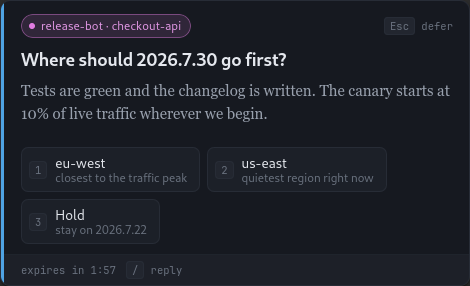
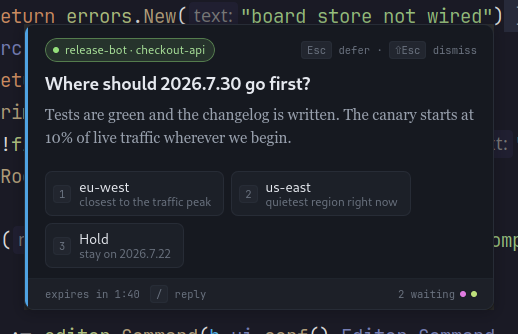
docs(wiki): the twelve screenshots, and seven pages that were asking for one
The sitting ran for the first time. Ten of the twelve are in the pages that wanted
them: the agents board, the inbox, the review board, the hands-off pair, the
artifact, the toast, the panel, and card.png replaced by the restage that finally
earns its "2 waiting" (the old one read `expires in 1:57` with no queue behind it,
which both captions already claimed).

Every frame was read rather than trusted. The script's uniformity check can only
tell a rendered surface from wallpaper, and three frames it passed had a card
sitting over the subject.

Held back, and honestly rather than quietly: viewer.png is scrolled to the alert
callouts instead of the table, diagram and code block its spec asks for, and no page
references it yet. progress.png and history-stats.png are good but no page asks for
them. is-it-safe.md and settings.md keep their placeholders, because the secret card
and the Appearance page are not in the plan at all.

Known gaps in what did ship, for whoever retakes: the board shows seven roster rows
where DESIGN wants four, which is not fixable from the staging side - `sync lock`
mints its own session key on purpose, so every lock is a row. All four chips are in
frame, which is the other half of what DESIGN asks. The hands-off pair sits over the
review board rather than an editor. The artifact's bar has the interactive badge and
the runtime but no preview/code toggle.

SHOTS.md now opens with what the first run cost instead of a warning that it had
never happened.

diff --git a/tools/wiki/shots.py b/tools/wiki/shots.py
@@ -891,17 +891,24 @@ def end_progress(c):
     """
     if not c.progress_procs:
         return
+    # EOF and not SIGTERM. `agentbox progress` reads percent lines from stdin and
+    # finishes the task when the pipe closes; killing it instead reports the task
+    # as interrupted, and the daemon turns that into an error notification that
+    # then sat over the artifact and the hands-off strip in the next two shots.
     for p in c.progress_procs:
         try:
             p.stdin.close()
         except (OSError, ValueError):
             pass
-        p.terminate()
     for p in c.progress_procs:
         try:
-            p.wait(timeout=3)
+            p.wait(timeout=5)
         except subprocess.TimeoutExpired:
-            p.kill()
+            p.terminate()
+            try:
+                p.wait(timeout=3)
+            except subprocess.TimeoutExpired:
+                p.kill()
         if p in c.bg:
             c.bg.remove(p)
     c.progress_procs = []
@@ -1617,6 +1624,16 @@ def main():
         # and it is always-on-top in the corner every other window shot uses.
         if shot["key"] == "S10":
             end_progress(c)
+        # S9 is a WARNING notify, and a warning waits to be read: no dismiss timer
+        # is ever armed for it (FACTS.md, daemon.go:1501-1511). So it stays the
+        # current item and the card S1 fires queues behind it, and S1 reported "no
+        # window matching =agentbox" in every full run while passing on its own.
+        # Nothing else is pending at this point - the history items are resolved
+        # and S1 has not fired - so clearing the queue clears exactly the toast.
+        if shot["key"] == "S9":
+            assert_isolated(c.env_iso)
+            c.abx("dismiss", "--all", env=c.env_iso)
+            c.wait_gone("=agentbox · toast", c.env_iso, seconds=4.0)
         # S1 leaves two questions queued on purpose - that is what its footer
         # counts - and the daemon shows the next one the moment the front card
         # goes. Every app-window shot after this had a card sitting over it.

diff --git a/tools/wiki/SHOTS.md b/tools/wiki/SHOTS.md
@@ -8,10 +8,33 @@ different questions and change at different speeds. DESIGN.md says what must be
 on screen and why, and it is the thing a page author reads. This is an operations
 runbook for one script, and it changes whenever the script does.
 
-**As of this writing the script has never been run.** It was written and tested
-against fabricated input only. The first person to run it should expect to retake
-two or three shots and should read the "what usually goes wrong" section before
-starting, not after.
+**First run: 2026-08-07.** It had never been run before that, having been written
+and tested against fabricated input only, and it did not survive contact with a
+desktop. Eight defects, all in the script or its staging rather than in the
+product, all fixed and all now covered by tests:
+
+1. `sync attach` ran in the foreground. It never returns by design, so the sitting
+   hung at the fourth line of phase 1 with the daemon already down.
+2. `walkthrough create`'s exit code was thrown away, turning a schema refusal into
+   a 45-second wait for a window.
+3. The spec's `repo_root` was relative; the daemon requires absolute.
+4. The spec had no `pinned` SHA, which the daemon also requires.
+5. Code and check steps need a `tldr`, and the board opens in brief, so for S4 it
+   is the photograph rather than metadata.
+6. The board opens on the ground step, which has no code and no note, so S4 has to
+   step right and leave brief for the full text.
+7. The three progress feeders hold their pipes open, so that window sat in the
+   corner of every later frame. They are closed on EOF now - terminating them made
+   the daemon report an interrupted task, and that error notification then sat over
+   the artifact and the hands-off strip.
+8. Staging fired enough items to trip flood control, which collapsed S1's card into
+   a stack so no card window ever appeared; and S9 is a warning notify, which waits
+   to be read and therefore held the queue behind it. S1 failed in every full run
+   while passing on its own, which reads as a flaky window and is not one.
+
+Expect to read every frame afterwards regardless. The script's own check can only
+tell a rendered surface from wallpaper; it cannot see a card sitting over the shot,
+and three of the first run's frames had one.
 
 ## What it costs you
 

diff --git a/docs/wiki/pages/documents-and-artifacts.md b/docs/wiki/pages/documents-and-artifacts.md
@@ -89,7 +89,7 @@ Some answers are not a number in a text field. They are a shape, a threshold, a
 share of traffic. Nine numbered options cannot carry that, so an agent writes a
 small page and blocks until you have used it.
 
-<!-- SHOT: an artifact running in its own window. A canary console with a slider at 50% of live traffic, a bar under it saying what that share is in requests a minute, two buttons reading Start the rollout and Hold it. The bar above showing the interactive badge, the runtime it asked for, and the preview/code toggle -->
+![An artifact running in its own window: a canary console titled How much traffic should the new build take, a slider at 50% of live traffic with 2,100 req/min on the new build under it, and two buttons reading Start the rollout and Hold it. The bar above carries an interactive badge and the runtime it asked for, react + tailwind](img/artifact.png)
 
 Above every artifact is a bar: an `interactive` badge, which runtime it asked for,
 a **preview and code toggle**, and a reload button. The code tab is the source

diff --git a/docs/wiki/pages/review-board.md b/docs/wiki/pages/review-board.md
@@ -29,7 +29,7 @@ The rail down the side shows every station at once, the current one marked, with
 running count of how many you have judged. That count is the promise the surface
 rests on: this is finite, and nothing may grow it mid-walk.
 
-<!-- SHOT: the review board. The rail of grouped steps on the left with one domain open, a step open at its TL;DR, a code block with line numbers and a highlighted range, and one comment anchored to a selection with a note typed into it -->
+![The review board: the rail of steps on the left, one step open at its TL;DR, and under it the real code at cmd/agentbox/main.go lines 30 to 45 with a note anchored to the exit-code constants reading 0 through 4: answered, refused, misused, unanswered, broken](img/review-board.png)
 
 Only one of the four step kinds is code. A ground step carries the vocabulary and
 does not count toward the total, and a check step is a command with an expected

diff --git a/docs/wiki/pages/notifications.md b/docs/wiki/pages/notifications.md
@@ -17,7 +17,7 @@ It gets a strip at the top centre, wearing its level: a coloured bar, a tint, an
 per level (a circled i, a check, a warning triangle, a crossed circle, a bell).
 You know what kind of thing this is before you have read the title.
 
-<!-- SHOT: a warning-level strip from dependency-bot on checkout-api, top centre of the screen, title reading that two transitive dependencies moved to a yanked version, no countdown in it -->
+![A warning-level toast at the top of the screen from dependency-bot on checkout-api: two transitive dependencies moved to a yanked version, both in the release candidate. It carries a dismiss cross and no countdown, because a warning waits to be read](img/toast.png)
 
 The title always shows whole; the body wraps to three lines and then offers to
 expand in place. One arrives at a time, and a second waits its turn instead of

diff --git a/docs/wiki/pages/nothing-gets-lost.md b/docs/wiki/pages/nothing-gets-lost.md
@@ -16,7 +16,7 @@ The inbox is an ordinary window with two sections. **Pending** first, then
 decided before the list reaches the screen, so a question can never sink below
 the answered noise.
 
-<!-- SHOT: the inbox after an hour away. Two pending rows on top, the selected one showing its key hints, then recent history with an outcome column carrying eu-west, approved, proceeded and one missed while away. Footer reading N interruptions today -->
+![The inbox: two pending questions at the top, the selected one showing its key hints (1 yes, 2 no, d dismiss, c copy), and below them recent history whose outcome column reads eu-west, approved, proceeded and expired](img/inbox.png)
 
 One search box covers title, agent, project, kind and outcome. There is no level
 filter and no per-agent dropdown, which is a smaller surface than it sounds: typing

diff --git a/docs/wiki/pages/hands-off.md b/docs/wiki/pages/hands-off.md
@@ -9,7 +9,9 @@
 > comfortable with. **Skip to** [[Taking turns|taking-turns]] for the resources
 > that are not your desktop.
 
-<!-- SHOT: the amber strip over a real desktop with an unrelated window under it, beside the same strip green and reading PAUSED - YOURS, the frozen activity line still legible -->
+![The amber HANDS OFF strip pinned to the top of the screen, reading renaming the staging secret in the console, with a Pause button, over the window the reader was using](img/hands-off.png)
+
+![The same strip in green, reading PAUSED - YOURS with the activity line frozen and still legible, and a Resume button in place of Pause](img/hands-off-paused.png)
 
 ## A sign that is on screen for exactly as long as it is true
 

diff --git a/docs/wiki/pages/sessions.md b/docs/wiki/pages/sessions.md
@@ -8,7 +8,7 @@
 > **Read on if** you want the agent and the answer in the same window. **Skip to**
 > [[Work it does on its own|assignments]] for the runs nobody starts.
 
-<!-- SHOT: the console rolled down over an editor, one session chip selected, a turn mid-stream, and the inline question sitting above the composer -->
+![The console rolled down over the editor: session chips along the top, a turn mid-stream showing code, and an inline question above the composer asking whether to persist per-segment offsets, with three numbered answers and its key hints](img/panel.png)
 
 ## A turn you can read, with the machinery folded away
 

diff --git a/docs/wiki/pages/agents-board.md b/docs/wiki/pages/agents-board.md
@@ -9,7 +9,7 @@
 > is waiting on you. **Skip to** [[Taking turns|taking-turns]] for the primitives
 > this board is watching.
 
-<!-- SHOT: one area with four rows - asking you, blocked behind a named lock, listening, and a dim row with no purpose - and the shared-values block under them -->
+![The Agents board: a shared-values block over rows grouped by area. One agent is chipped asking you, one blocked while it waits on the lock deploy:checkout-api held by release-bot, one listening on tests:green, and a dim row reading no purpose given](img/agents-board.png)
 
 ## Three questions, always in the same place
 
